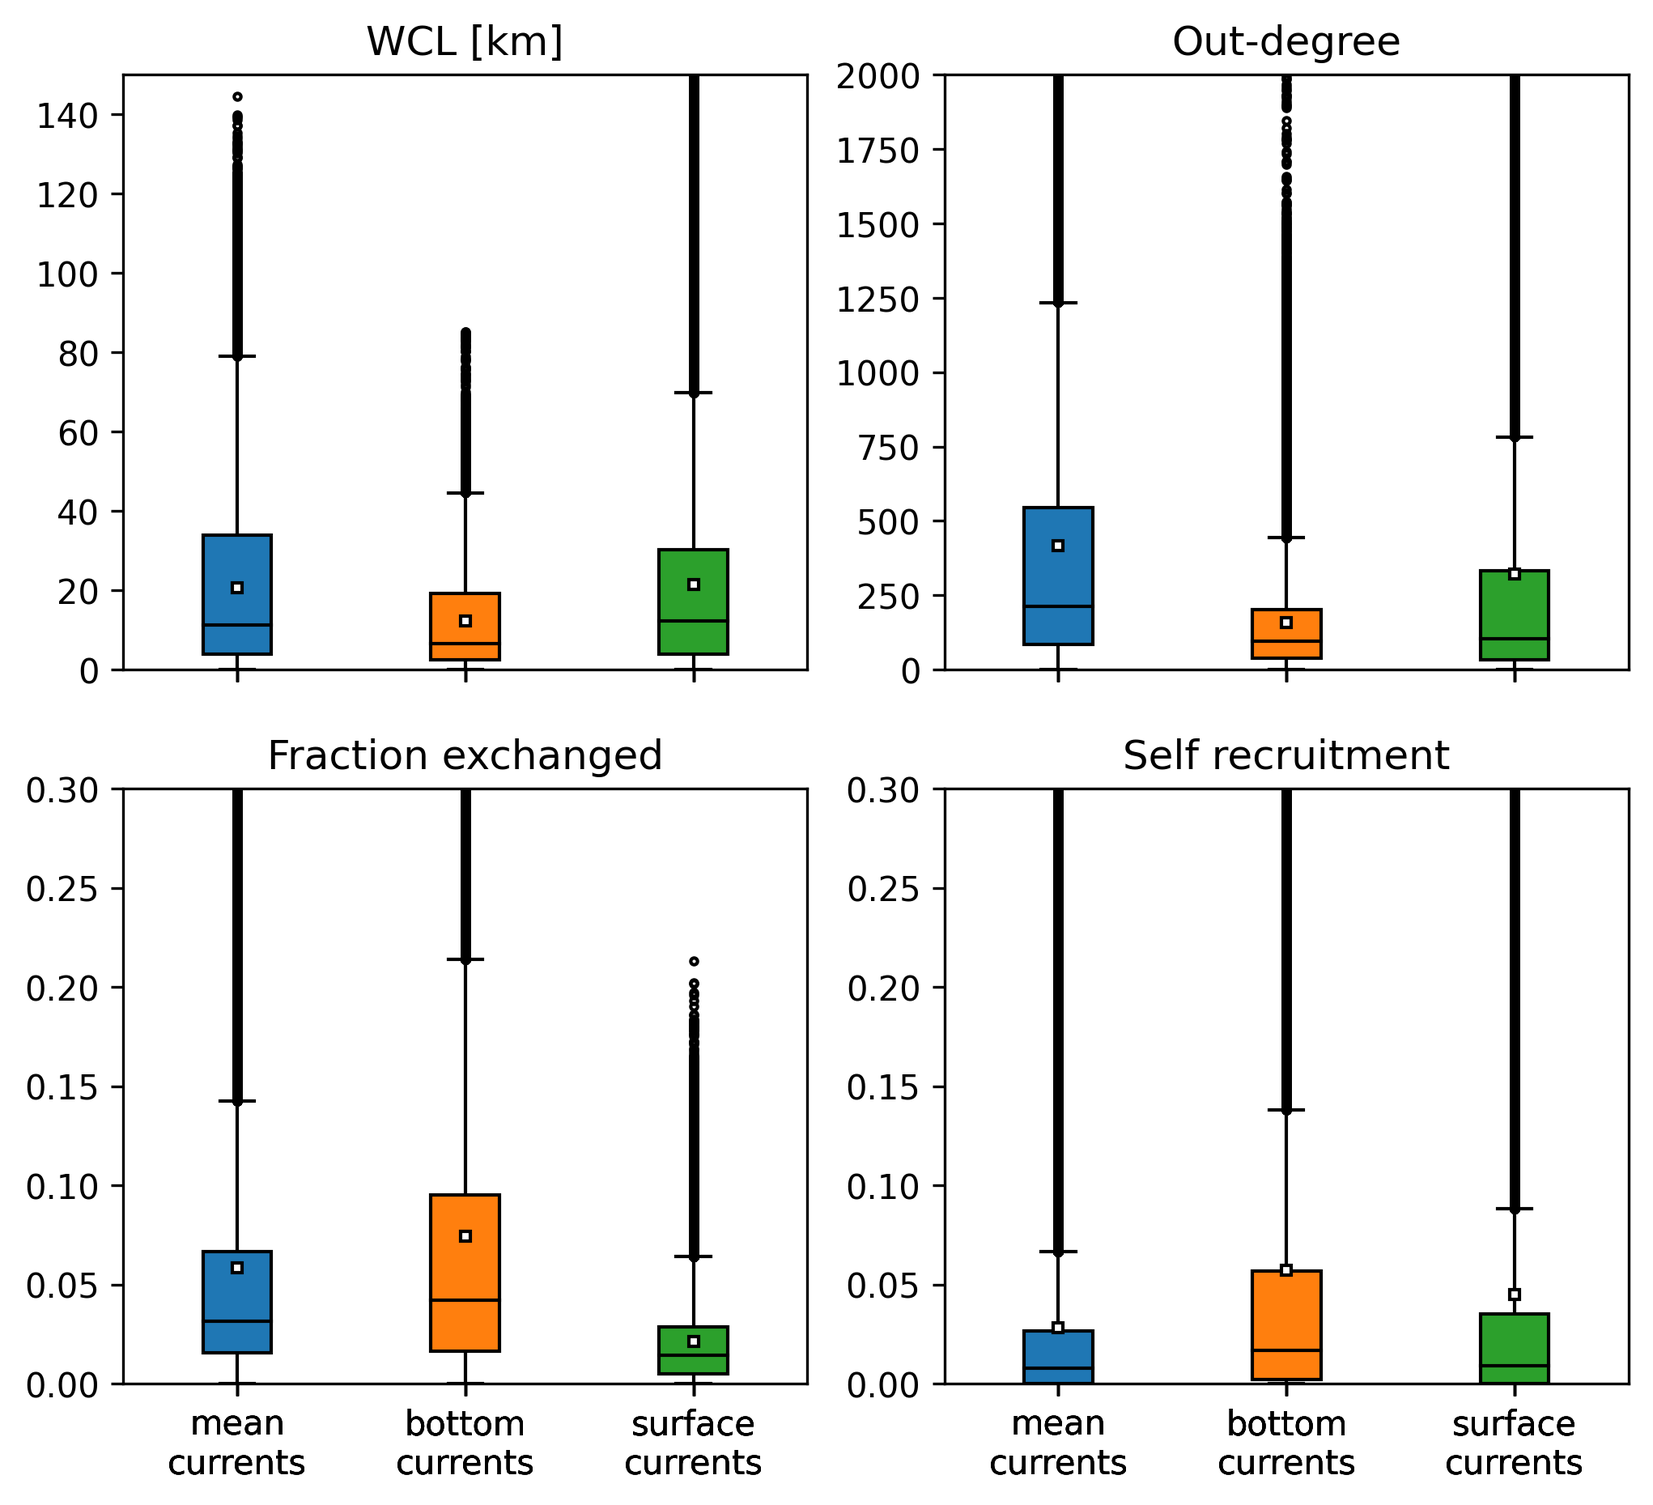
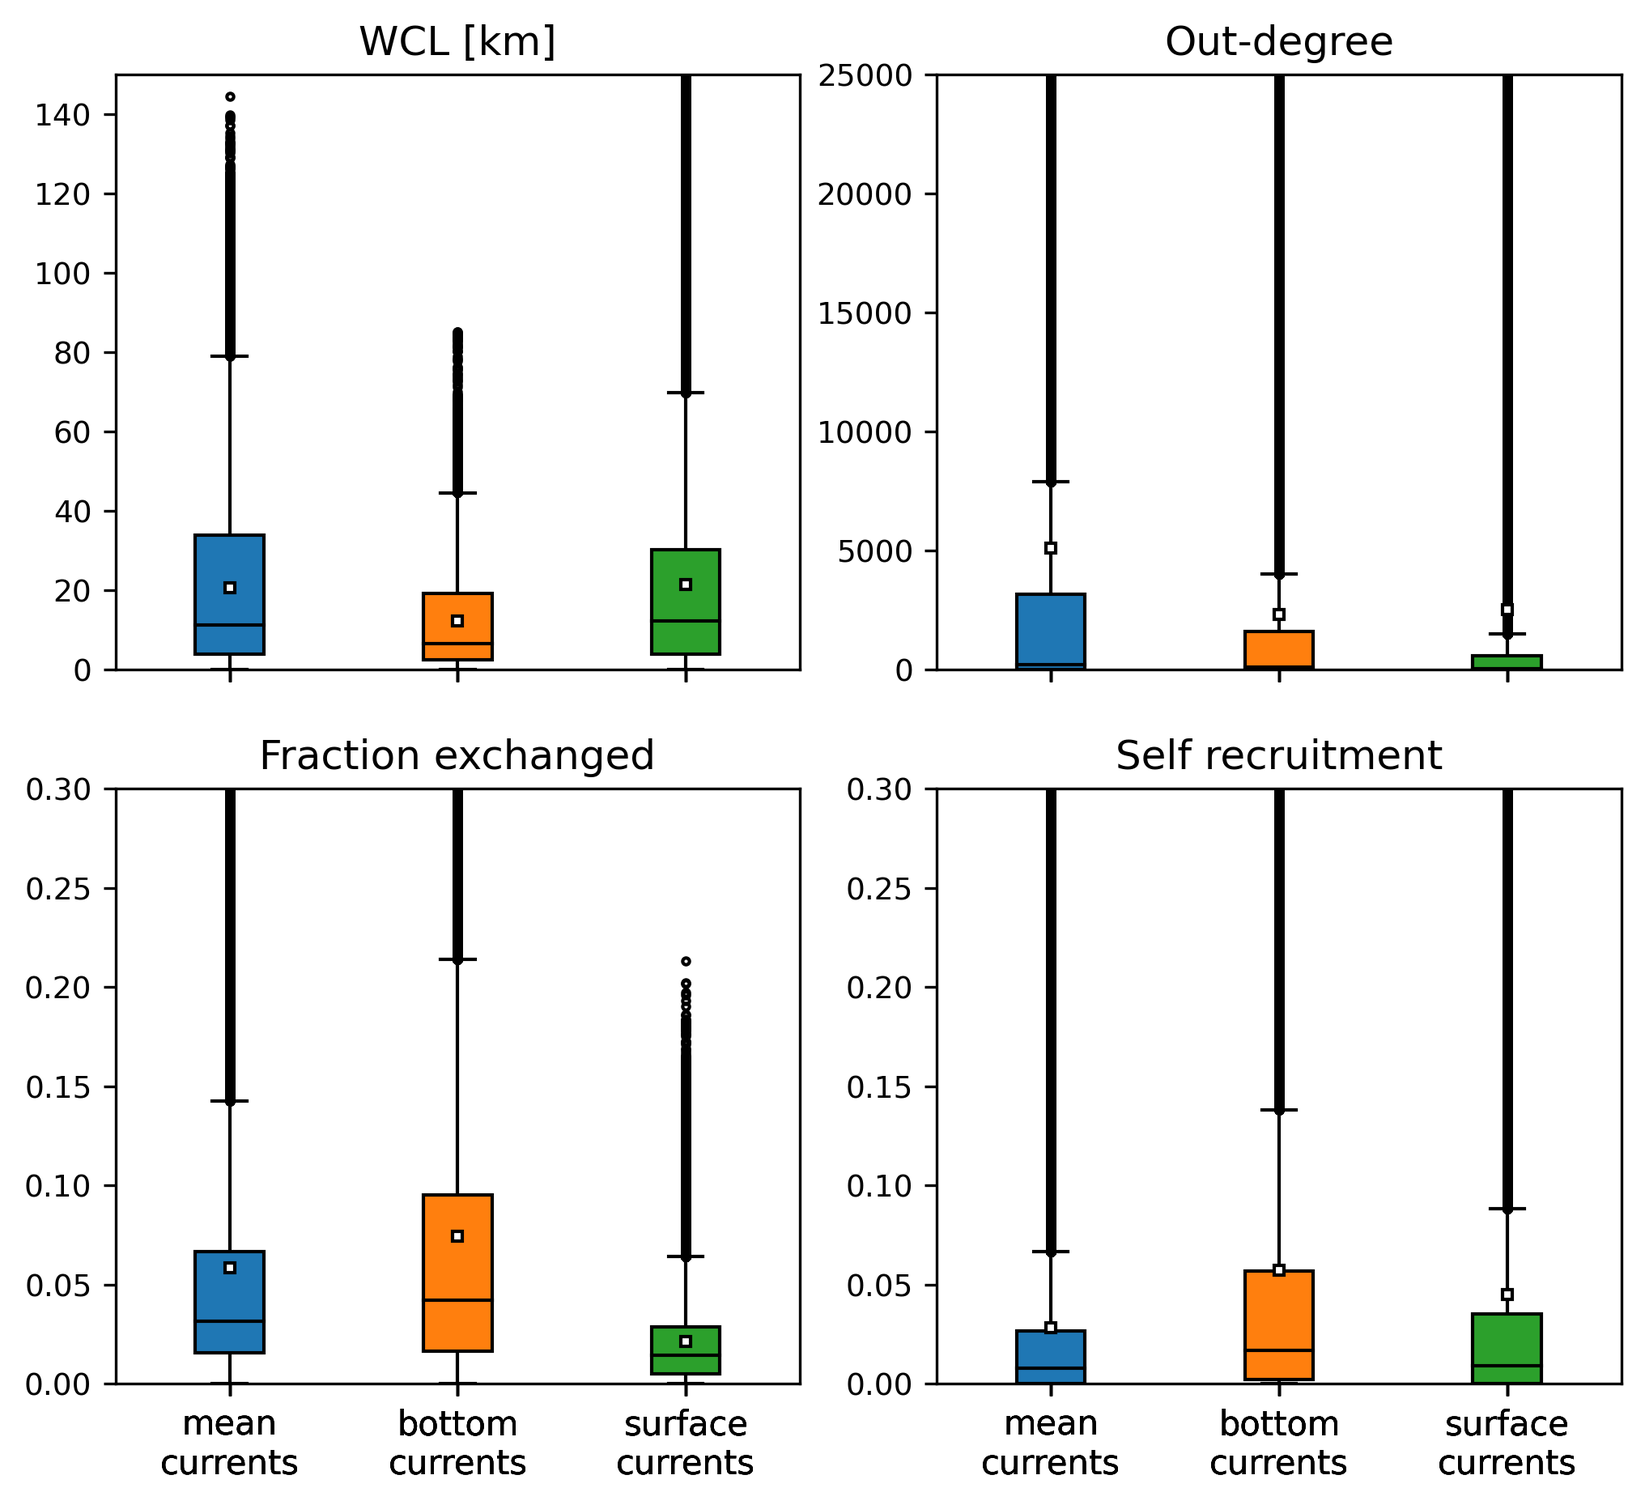
Changes from papeeria

diff --git a/main.tex b/main.tex
@@ -1,4 +1,4 @@
-    \documentclass[utf8]{frontiersSCNS}
+\documentclass[utf8]{frontiersSCNS}
 \usepackage{url,hyperref,lineno,microtype,subcaption}
 \usepackage{color,tensor,multirow,siunitx}
 \usepackage[onehalfspacing]{setspace}
@@ -83,9 +83,9 @@ For about six years, the Florida Reef Tract (FRT) has been experiencing an outbr
 % === INTRODUCTION === %
 \section{Introduction}
 \erinn{Coral disease in the Caribbean (model could therefore be used in other locations of Caribbean). \\Stony Coral Tissue Loss disease: where, when, what do we know (tank based transmission exp, spatial modeling paper)} \\
-\dan{SIR modeling background?} \\ Marine diseases differ significantly from better studied terrestrial diseases, namely due to the potential for long environmental residence times, during which pathogens may survive and disperse through the water (Harvell et al. 2007; Sokolow et al. 2009). Several recent studies have attempted to adapt traditional epidemic models (Susceptible-Infectious-Recovered, or SIR models) to coral reef systems (Sokolow et al. 2009; Bidegain et al. 2016b, 2016a)¬. Novel approaches have included developing pathogen pools (Bidegain et al. 2016b, 2016a), and to model at the metapopulation scale, rather than at the scale of coral holobionts (Sokolow et al. 2009). Both these approaches are attempting to address the same issue: Infection occurs between patches of entirely sessile animals, through the dispersal of pathogen(s). Thus, there are internal within-patch disease dynamics and metapopulation-scale between-patch dynamics occurring simultaneously.
+\dan{SIR modeling background:}Marine diseases differ significantly from better studied terrestrial diseases, namely due to the potential for long environmental residence times, during which pathogens may survive and disperse through the water \citep{harvell2007coral, sokolow2009effects}. Several recent studies have attempted to adapt traditional epidemic models (Susceptible-Infectious-Recovered, or SIR models) to coral reef systems \citep{sokolow2009effects, bidegain2016microparasitic, bidegain2016marine}. Novel approaches have included developing pathogen pools \citep{bidegain2016microparasitic, bidegain2016marine}, and to model at the metapopulation scale, rather than at the scale of coral holobionts \citep{sokolow2009effects}. Both these approaches are attempting to address the same issue: Infection occurs between patches of entirely sessile animals, through the dispersal of pathogen(s). Thus, there are internal within-patch disease dynamics and metapopulation-scale between-patch dynamics occurring simultaneously.
 
-The epidemic model developed in this study utilizes the same basic architecture of previous coral reef SIR models, but rather than assume pathogen pools (e.g. Bidegain et al. 2016b, 2016a) or ignore internal patch dynamics (e.g. Sokolow et al. 2009), we've modeled both within-patch disease dynamics and the dispersal of pathogen explicitly. \\
+The epidemic model developed in this study utilizes the same basic architecture of previous coral reef SIR models, but rather than assume pathogen pools (e.g. \cite{bidegain2016microparasitic, bidegain2016marine}) or ignore internal patch dynamics (e.g. \cite{sokolow2009effects}), we've modeled both within-patch disease dynamics and the dispersal of pathogen explicitly. \\
 % * DH - Feel free to edit this text.
 
 
@@ -95,7 +95,7 @@ Unstructured-mesh ocean models offer a potential solution to this resolution iss
 \dobby{Other applications of SIR model with hydro/networks ?}
 
 
-The objective of this study is to deduce the probable propagation mechanism of the SCTLD throughout the FRT by developing an experimentally-calibrated epidemio-hydrodynamic model. With a resolution of about 100m, this model can capture potential exchanges of infectious matter between reefs that would be ignored by coarser models. By reproducing the observed spread of disease between 1st May 2018 and 1st April 2014, we provide insight on the characteristics of the disease agent and its vector. Ultimately, our model, coupled with lab and field works, would support the management of the epidemic and the identification of its causative agent.
+The objective of this study is to deduce the probable propagation mechanism of the SCTLD throughout the FRT by developing an experimentally-calibrated epidemio-hydrodynamic model. With a resolution of about 100 m, this model can capture potential exchanges of infectious matter between reefs that would be ignored by coarser models. By reproducing the observed spread of disease between 1st May 2018 and 1st April 2014, we provide insight on the characteristics of the disease agent and its vector. Ultimately, our model, coupled with lab and field works, would support the management of the epidemic and the identification of its causative agent.
 
 % === METHODS === %
 \section{Methods}
@@ -103,6 +103,8 @@ The objective of this study is to deduce the probable propagation mechanism of t
 % --> Subsection 1
 \subsection{Modeling reef connectivity}
 The exchanges of infectious material between coral reefs are primarily driven by ocean currents, which therefore have to be accurately simulated. An ocean model should provide a realistic large-scale circulation while also resolving small-scale flow features down to the scale of individual reefs. In this study, we use the unstructured-mesh depth-integrated coastal ocean model SLIM\footnote{\url{https://www.slim-ocean.be}} to simulate ocean currents over an area that includes the FRT but also the Florida Strait and part of the Gulf of Mexico (Fig. \ref{fig:setup}). By using an unstructured mesh, we can increase the model resolution only over the FRT and hence concentrate computational resources where they are most needed. \slim, being a depth-averaged model, is well suited to shallow-water flows. %On the shelf break and in deeper areas, it might however not be able to model more complex processes such as mesoscale eddies that are observed along the southern flank of the FRT and the thermally-driven FC. This issue has been partly circumvented by relaxing SLIM's velocity towards the depth-averaged velocity obtained with the HYbrid Coordinate Ocean Model (HYCOM, \cite{Chassignet2007}) implemented over the Gulf of Mexico, when the water depth exceeds a certain threshold.
+% * <Lew Gramer - NOAA Affiliate> 09:22:11 28 May 2020 UTC-0400:
+% Doesn't this first sentence kind of presume one of our main hypotheses - that motile organisms and human activity are not primary drivers? May be worth weakening... Also, this initial text sounds more like Introduction than Methods to me, maybe?
 Details of the model formulation and validation are provided in \cite{frys20}. 
 
 \begin{figure}
@@ -114,7 +116,7 @@ Details of the model formulation and validation are provided in \cite{frys20}.
 
 The mesh resolution depends only on the distance to the coast but we distinguish between the coastlines along the FRT where we impose a maximum resolution of 100 m and the other coastlines along which the maximum resolution is 2500 m. The mesh has been generated with the open-source mesh generator GMSH \citep{Geuzaine2009} and has about $7 \times 10^5$ elements. The coarsest elements, far away from the FRT, have a size of about 10 km. An illustration of ocean currents simulated on that mesh are shown in Fig. \ref{fig:setup}. It shows how a 100-m spatial resolution allows us to simulate fine-scale details of the flow, such as recirculation eddies and currents within the dense reef system in the Lower Keys that consist of many individual reefs with narrow passages in between. 
 
-The simulated currents can then be used to model dispersal of infectious material throughout the FRT. In this study, 3 types of potential vector carrying the disease causative agent were considered: positively buoyant (e.g. mucus and surfactant), neutrally buoyant (e.g. fines, pelagic organisms) and negatively buoyant (e.g. sediments, composites, demersal organisms). As SLIM is a depth-averaged model, the mean currents it generates are well suited to model the dispersal of neutrally buoyant material remaining within the water column. However, these currents must be modified to correctly represent the dynamics of materials evolving in the surface and bottom boundary layers. Therefore, surface current response to winds is estimated by adding 1.5\% of the wind speed to SLIM currents with a windage angle of 45$^\circ$ to the right for positively buoyant particles. Such parametrization is shown to be an accurate approximation of wave-induced Stokes drift and quasi-Eulerian surface currents by \citep{ardhuin2009observation}. For negatively buoyant materials, on the other hand, bottom currents are obtained by taking 60\% of SLIM currents velocity with a veering angle of 15$^\circ$ to the left. \lew{[Some references about the parametrizationfor bottom currents]}
+The simulated currents can then be used to model dispersal of infectious material throughout the FRT. In this study, 3 types of potential vector carrying the disease causative agent were considered: positively buoyant (e.g. mucus and surfactant), neutrally buoyant (e.g. fines, pelagic organisms) and negatively buoyant (e.g. sediments, composites, demersal organisms). As SLIM is a depth-averaged model, the mean currents it generates are well suited to model the dispersal of neutrally buoyant material remaining within the water column. However, these currents must be modified to correctly represent the dynamics of materials evolving in the surface and bottom boundary layers. Therefore, surface current response to winds is estimated by adding 1.5\% of the wind speed to SLIM currents with a windage angle of 45$^\circ$ to the right for positively buoyant particles. Such parametrization is shown to be an accurate approximation of wave-induced Stokes drift and quasi-Eulerian surface currents by \citep{ardhuin2009observation}. For negatively buoyant materials, on the other hand, bottom currents are obtained by taking 60\% of SLIM currents velocity with a veering angle of 15$^\circ$ to the left. \lew{[Some references about the parametrization for bottom currents]}
 
 Using these three velocity fields, virtual particles are then released on all the reefs composing the FRT to model the dispersal of infected materials carrying the disease causative agent. The locations of the reefs of Florida are extracted from the "coral reefs and hardbottom" layer of the Unified Florida Reef Tract Map \citep{fwc2017unified}. The polygon of this reef map are then further divided into 500 m squares in order to track the propagation of the disease with a finer geographical resolution, generating a total of 16823 polygons. % \textcolor{red}{(14058 without the big Vaca reef)}
 At the beginning of each simulated months and for each type of currents, a total of about $1.5 \times 10^6$ particles are released over all the reef polygons. These particles have a state composed of their polygon of origin as well as their mass, initialized to 1, that they loose at a constant rate $\gamma$ as they are moved by surface, mean or bottom currents. In this study, the value of $\gamma$ is chosen so that particles have a half life of 30 days. When the particles are brought over reef polygons by currents, the amount of infected mass that lands on the polygon is recorded in monthly potential connectivity matrices whose entries are denoted $C_{ij}$. The matrix rows correspond to the source reefs and the columns correspond to the destination reefs. Hence $C_{ij}$ represents the mass of infected material originating from sub-reef i that has settled on sub-reef j. This matrix is then normalized by dividing each of its rows $i$ by the the total mass of particles released on polygon $i$ in order to obtained the normalized potential connectivity matrix $\tilde{C}$, whose entry $\tilde{C}_{ij}$ gives the probability that infectious material produced on sub-reef $i$ settles on sub-reef $j$. Connectivity matrices are computed for each type of current and for each month of the simulated period.
@@ -123,9 +125,7 @@ These connectivity matrices can be more easily handled by interpreting them as l
 \begin{equation}
     WCL_i = \dfrac{\sum_j \tilde{C}_{ij} L_{ij}}{\sum_j \tilde{C}_{ij}}
 \end{equation}
-where $L_{ij}$ is the distance between origin reef $i$ and destination reef $j$. Another measure of the spreading potential of reef $j$ is its out-degree, \ie the number of connections originating from reef $j$ in the network. This indicator is obtained by computing the number non-zero entries of row $i$ of the potential connectivity matrix $\tilde{C}$. The information given by the out-degree is complemented by the proportion of infectious elements produced on reef $i$ that successfully settles on a reef, called the fraction exchanged of reef $i$. This indicator is given by $\sum_{j} \tilde{C}_{ij}$. Finally, the isolation of reef $i$ in the network is given by the self recruitment, \ie the proportion of infectious matter settling on reef $i$ that originates from reef $i$, computed by $C_{ii}/\sum_jC_{ji}$. A large self-recruitment value indicates that few infectious matter produced elsewhere settles on the reef and thus that it is isolated from the rest of the network. 
-% * <emmanuel.hanert@uclouvain.be> 09:18:04 28 May 2020 UTC+0200:
-% For the out-degree, I would consider the (number of connections) x (amount of material exchanged). That's a better measure of a reef's potential to spread the disease.
+where $L_{ij}$ is the distance between origin reef $i$ and destination reef $j$. Another measure of the spreading potential of reef $j$ is its out-degree, \ie the product of the number of connections originating from reef $j$ by the quantity of infectious matter its sends to the network. This indicator is obtained by computing the number non-zero entries of row $i$ of the potential connectivity matrix $C$ and multiplying it with $\sum_j C_{ij}$. The information given by the out-degree is complemented by the proportion of infectious elements produced on reef $i$ that successfully settles on a reef, called the fraction exchanged of reef $i$. This indicator is given by $\sum_{j} \tilde{C}_{ij}$. Finally, the isolation of reef $i$ in the network is given by the self recruitment, \ie the proportion of infectious matter settling on reef $i$ that originates from reef $i$, computed by $C_{ii}/\sum_jC_{ji}$. A large self-recruitment value indicates that few infectious matter produced elsewhere settles on the reef and thus that it is isolated from the rest of the network. 
 
 \begin{table}
     \centering
@@ -138,7 +138,7 @@ where $L_{ij}$ is the distance between origin reef $i$ and destination reef $j$.
             Average distance at which a reef can send infectious matter \\
         \hline
             Out-degree &
-            Number of out-going connections originating from a given reef &
+            Number of out-going connections originating from a given reef multiplied by the total mass exchanged  &
             Potential for a reef to spread the disease \\
         \hline
             Fraction exchanged &
@@ -189,12 +189,7 @@ Due to the low values of the entries in the normalized connectivity matrix $\til
 \begin{equation}
     S_\infty - \frac{\sigma}{\beta_0'}\log(S_{\infty}/S_0) = 1\label{eq:ratio}
 \end{equation}
-where the initial proportion of susceptible corals ($S_0$) is taken equal to $1-I_0$ (see for instance \cite{Murray07}). In the framework of Eqs. \ref{eq:simplified}, the ratio $\beta_0'/\sigma$ gives the value of the basic reproduction number $R_0$, defined as the average number of secondary cases produced by one
-infected individual introduced into a population of susceptible individuals \citep{keeling2007stochastic}. This
-number is used in epidemiological models to determine whether an emerging infectious disease can spread in a
-population ($R_0 > 1$) or not ($R_0 < 1$). The obtained basic reproduction number is then used to find the value of $\beta'_0$ that reproduces the observed temporal evolution of the state of the coral colonies. Finally, the value of $\sigma$ is obtained from the value of $\beta_0'$ using the expression of $R_0$.
-% * <emmanuel.hanert@uclouvain.be> 09:23:19 28 May 2020 UTC+0200:
-% It's still not clear to me how you find the value of sigma...
+where the initial proportion of susceptible corals ($S_0$) is taken equal to $1-I_0$ (see for instance \cite{Murray07}). In the framework of Eqs. \ref{eq:simplified}, the ratio $\beta_0'/\sigma$ gives the value of the basic reproduction number $R_0$, defined as the average number of secondary cases produced by one infected individual introduced into a population of susceptible individuals \citep{keeling2007stochastic}. This number is used in epidemiological models to determine whether an emerging infectious disease can spread in a population ($R_0 > 1$) or not ($R_0 < 1$). The obtained basic reproduction number is then used to express \sigma in terms of $\beta_0'$ and calibrate its value in order to reproduce as well as possible the temporal evolution of the colonies-averaged susceptible population shown in Fig. \ref{fig:calibration}.
 
 \subsubsection{Initialization}
 
@@ -231,9 +226,7 @@ Mean and surface currents, on the other hand show similar spreading ranges with 
 % * <emmanuel.hanert@uclouvain.be> 09:27:54 28 May 2020 UTC+0200:
 % consider out-degree as (# connections)x(amount of material exchanged) and revise description
 
-Self recruitment measures the isolation of the reefs in the network. Since infectious material is less likely to settle on isolated reefs, self recruitment measures the probability for the disease to settle on a given reef, whereas all three other indicators inform on the reef spreading potential. Fig. \ref{fig:connect} shows that the disease is more likely to settle on the reefs of networks generated by mean currents. This result is consistent with the values of the other connectivity measures, as reefs tend to be more strongly connected with mean currents. On the other hand, reefs are more isolated with bottom currents, as they produce the graphs with lowest WCL and out-degree. Finally, surface currents generate larger self recruitment values than mean currents as they exhibit the lowest fraction exchanged. 
-% * <emmanuel.hanert@uclouvain.be> 09:30:36 28 May 2020 UTC+0200:
-% Your description of self recruitment is not clear to me...
+Self recruitment gives the proportion of infectious material settling on a reef that was produced on the same reef. The greater its values, the more the reef is isolated from the rest of the network. Since infectious material is less likely to settle on isolated reefs, self recruitment measures the probability for the disease to settle on a given reef, whereas all three other indicators inform on the reef spreading potential. Fig. \ref{fig:connect} shows that the disease is more likely to settle on the reefs of networks generated by mean currents. This result is consistent with the values of the other connectivity measures, as reefs tend to be more strongly connected with mean currents. On the other hand, reefs are more isolated with bottom currents, as they produce the graphs with lowest WCL and out-degree. Finally, surface currents generate larger self recruitment values than mean currents as they exhibit the lowest fraction exchanged. 
 
 \begin{figure}
     \centering
